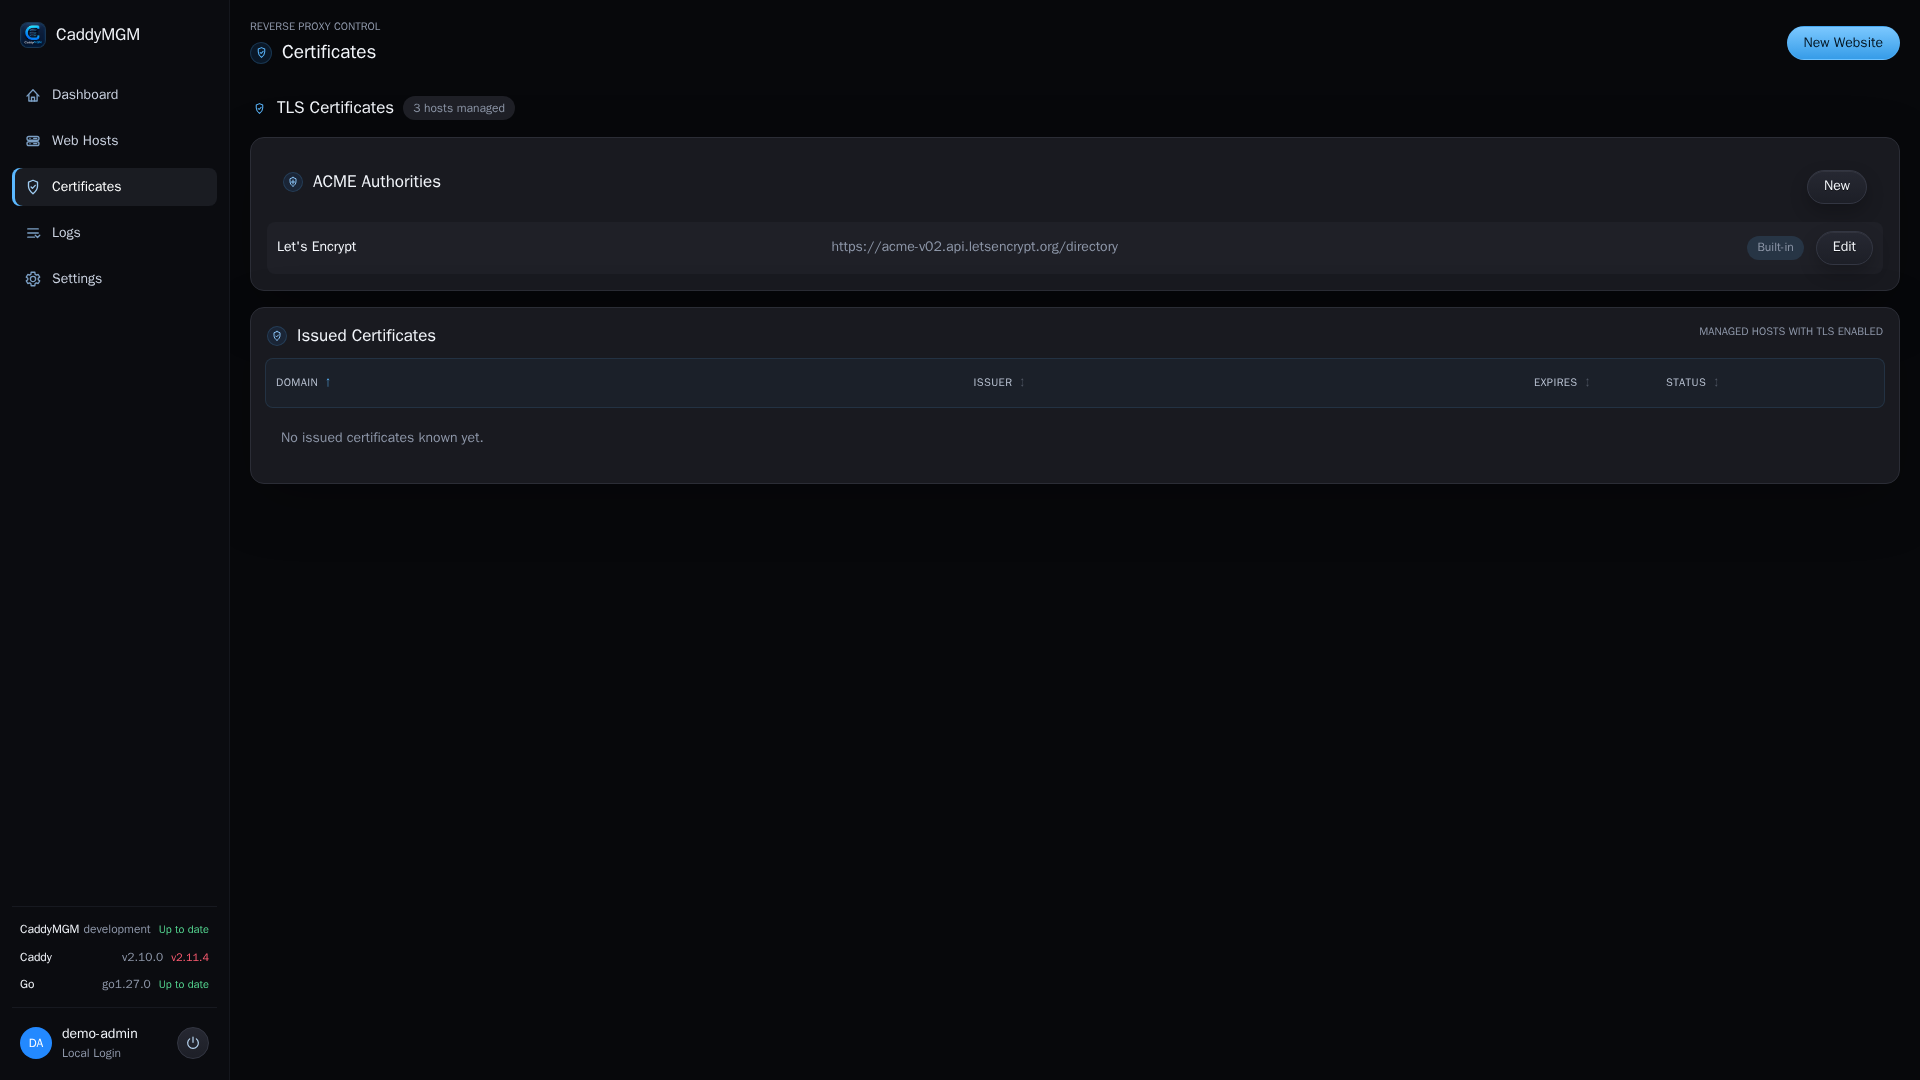
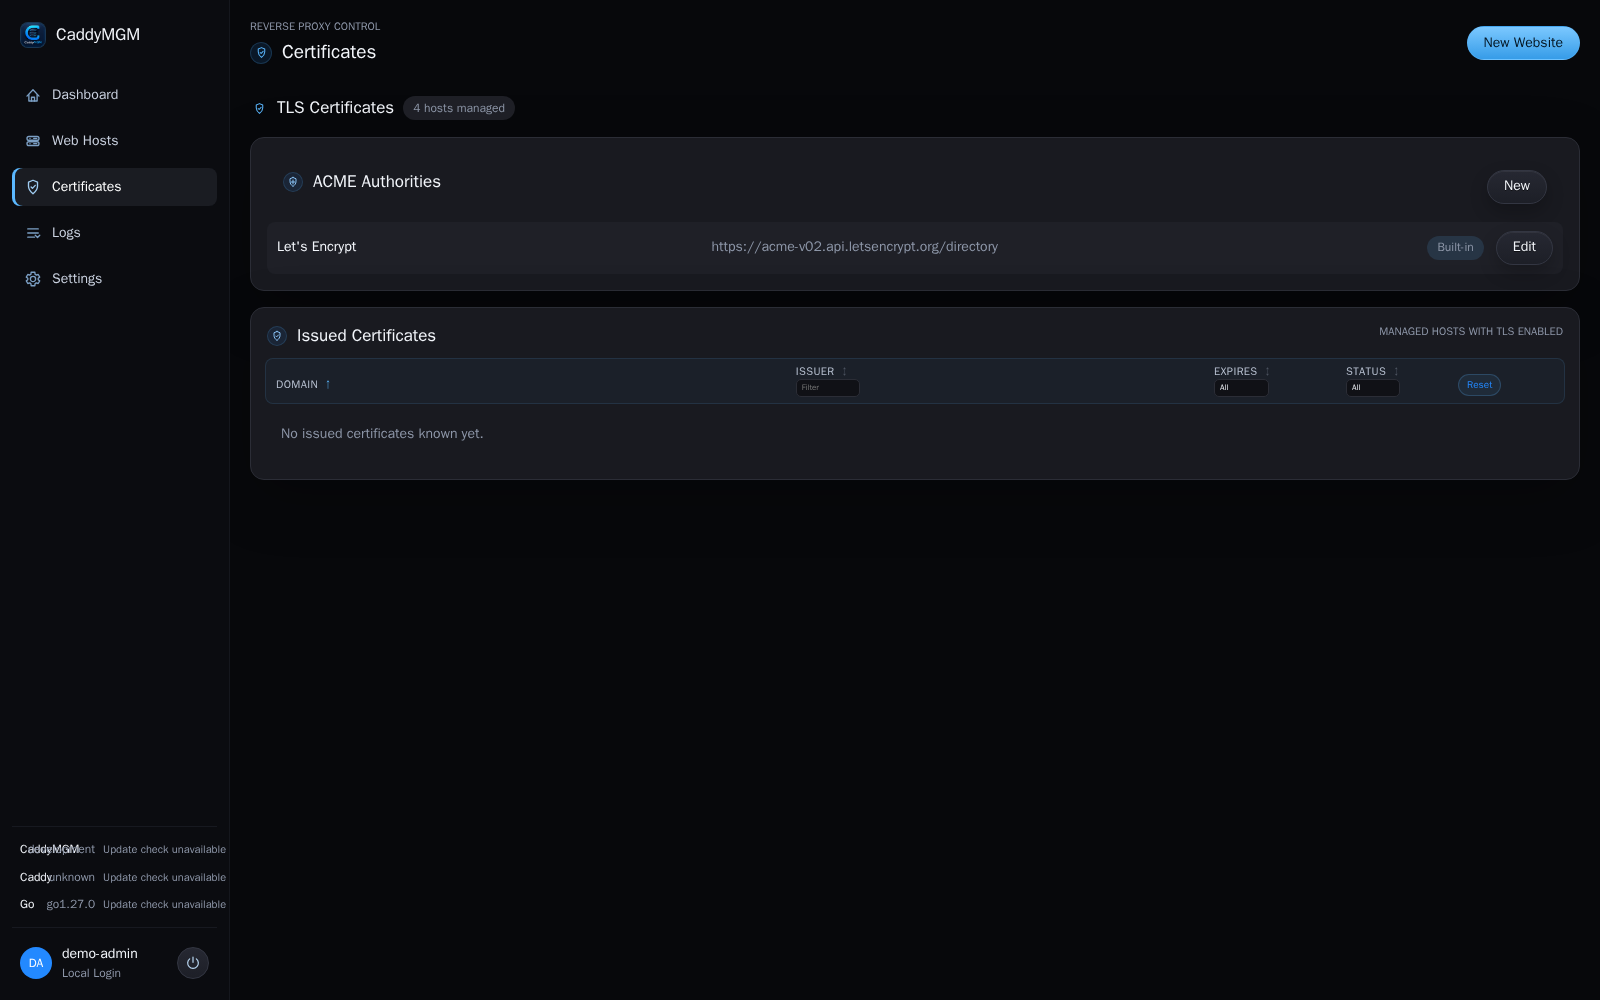
Refresh interface screenshots

diff --git a/.github/release-notes/v1.2.7.md b/.github/release-notes/v1.2.7.md
@@ -1,0 +1,6 @@
+## What's Changed
+
+### Optimizations
+
+- Refreshed all README interface screenshots using the current CaddyMGM development UI.
+- Replaced environment-specific screenshot content with isolated, anonymized demo data.
